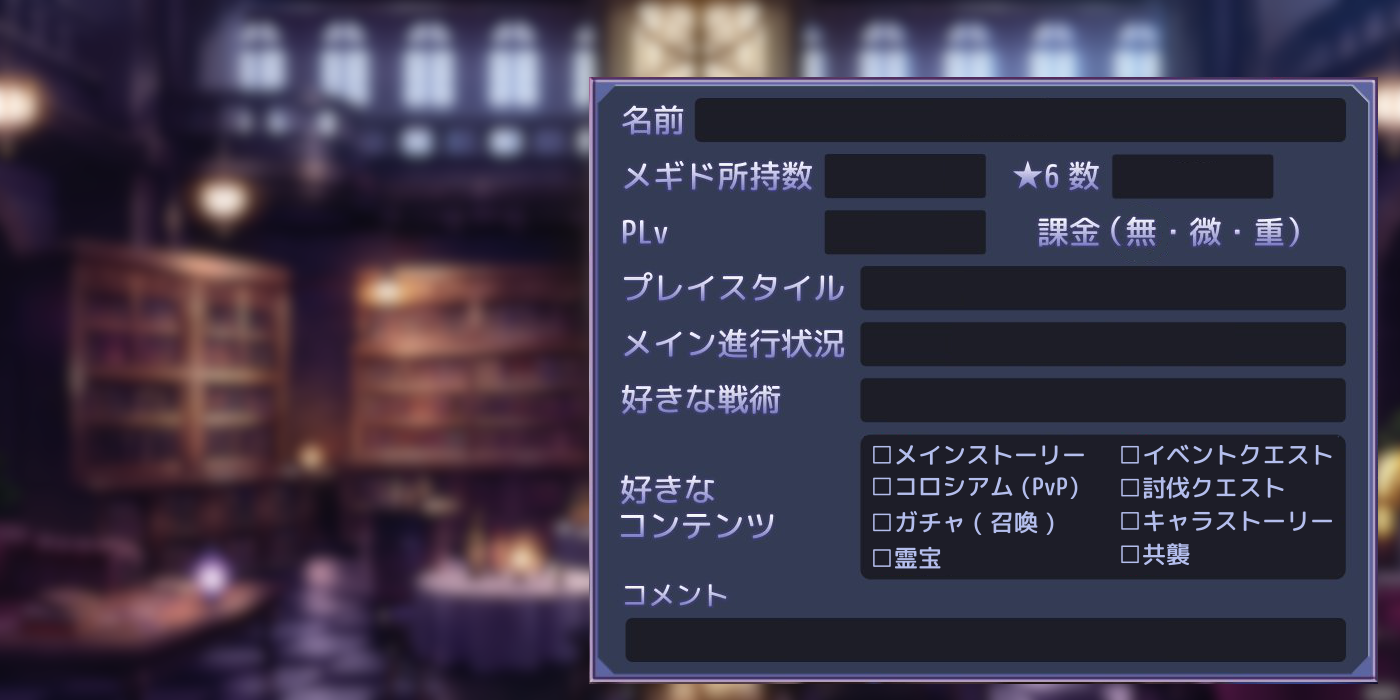
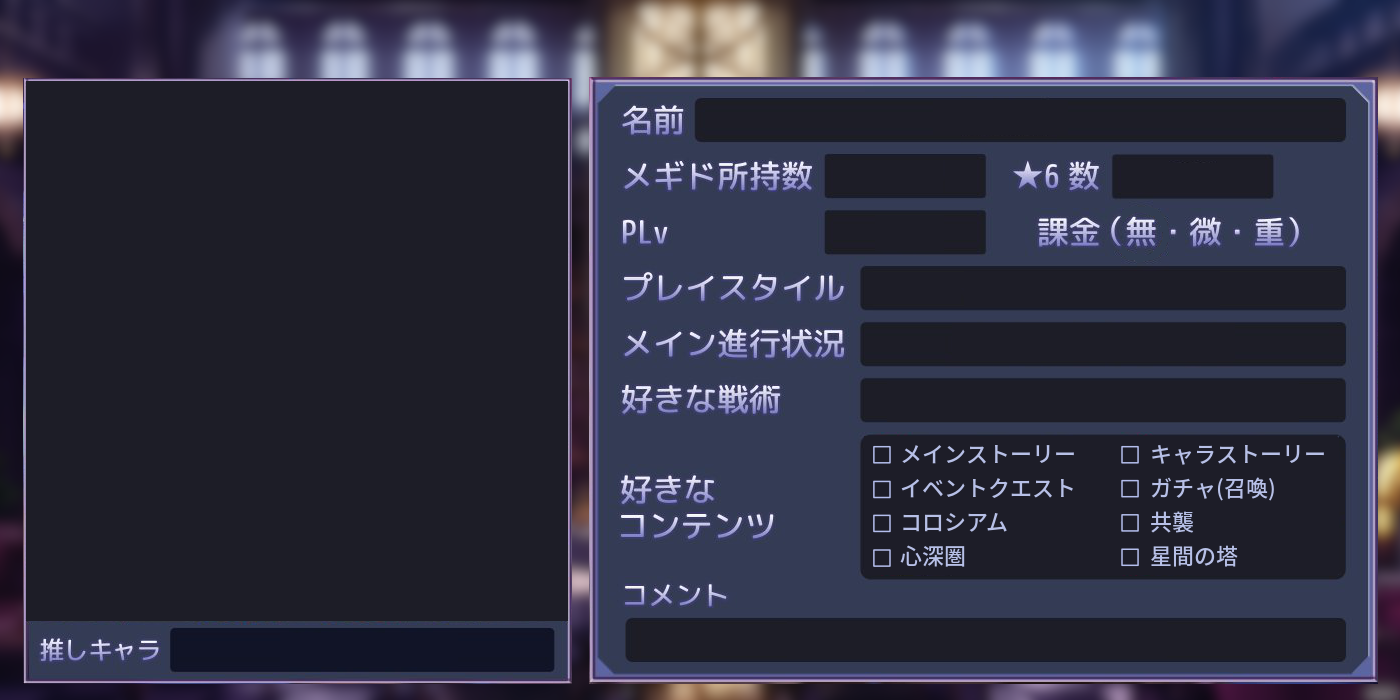
reorganize favorite contents

Changed region(s): [[0.0, 0.09, 0.43, 0.99], [0.7986, 0.63, 0.9521, 0.81], [0.6143, 0.63, 0.7679, 0.81]]

diff --git a/maker.js b/maker.js
@@ -28,16 +28,16 @@ const MEGIDO_OVERLAY = createCanvas(549, 606);
 const MEGIDO_EN = new Map();
 const MEGIDO_TABLE = new Map();
 var ShowState;
-(function(ShowState1) {
-    ShowState1[ShowState1["MegidoFront"] = 0] = "MegidoFront";
-    ShowState1[ShowState1["MegidoThumb"] = 1] = "MegidoThumb";
+(function(ShowState) {
+    ShowState[ShowState["MegidoFront"] = 0] = "MegidoFront";
+    ShowState[ShowState["MegidoThumb"] = 1] = "MegidoThumb";
 })(ShowState || (ShowState = {}));
 let MEGIDO_SHOW_STATE = ShowState.MegidoFront;
 let CAN_I_USE_WEBP = true;
 var DrawTarget;
-(function(DrawTarget1) {
-    DrawTarget1[DrawTarget1["HiddenFront"] = 0] = "HiddenFront";
-    DrawTarget1[DrawTarget1["MegidoOverlay"] = 1] = "MegidoOverlay";
+(function(DrawTarget) {
+    DrawTarget[DrawTarget["HiddenFront"] = 0] = "HiddenFront";
+    DrawTarget[DrawTarget["MegidoOverlay"] = 1] = "MegidoOverlay";
 })(DrawTarget || (DrawTarget = {}));
 async function drawText(txt, x, y, w, h, isSubset = true, target = DrawTarget.HiddenFront) {
     const fontFamily = await new Promise((resolve, _)=>{
@@ -159,7 +159,7 @@ function simpleChangeListeners() {
 function favoriteContentListener() {
     document.querySelectorAll("#favorite_contents input[type='checkbox']").forEach(function(item) {
         item.addEventListener("change", function(ev) {
-            const ctx1 = HIDDEN_FRONT.getContext("2d");
+            const ctx = HIDDEN_FRONT.getContext("2d");
             const doCheck = (ctx, x, y)=>{
                 const img = new Image();
                 img.src = "/img/checkbox.png";
@@ -169,62 +169,37 @@ function favoriteContentListener() {
             };
             const target = ev.target;
             const checked = target.checked;
+            const checkOrClear = (x, y)=>{
+                if (checked) {
+                    doCheck(ctx, x, y);
+                } else {
+                    ctx.clearRect(x, y, 35, 35);
+                }
+            };
             switch(target.id){
-                case "contents_main":
-                    if (checked) {
-                        doCheck(ctx1, 865, 436);
-                    } else {
-                        ctx1.clearRect(865, 436, 35, 35);
-                    }
+                case "contents_1":
+                    checkOrClear(865, 436);
                     break;
-                case "contents_event":
-                    if (checked) {
-                        doCheck(ctx1, 1115, 436);
-                    } else {
-                        ctx1.clearRect(1115, 436, 35, 35);
-                    }
+                case "contents_2":
+                    checkOrClear(1115, 436);
                     break;
-                case "contents_pvp":
-                    if (checked) {
-                        doCheck(ctx1, 865, 466);
-                    } else {
-                        ctx1.clearRect(865, 466, 35, 35);
-                    }
+                case "contents_3":
+                    checkOrClear(865, 468);
                     break;
-                case "contents_daigen":
-                    if (checked) {
-                        doCheck(ctx1, 1115, 466);
-                    } else {
-                        ctx1.clearRect(1115, 466, 35, 35);
-                    }
+                case "contents_4":
+                    checkOrClear(1115, 468);
                     break;
-                case "contents_gacha":
-                    if (checked) {
-                        doCheck(ctx1, 865, 501);
-                    } else {
-                        ctx1.clearRect(865, 501, 35, 35);
-                    }
+                case "contents_5":
+                    checkOrClear(865, 502);
                     break;
-                case "contents_chara":
-                    if (checked) {
-                        doCheck(ctx1, 1115, 500);
-                    } else {
-                        ctx1.clearRect(1115, 500, 35, 35);
-                    }
+                case "contents_6":
+                    checkOrClear(1115, 502);
                     break;
-                case "contents_reiho":
-                    if (checked) {
-                        doCheck(ctx1, 865, 536);
-                    } else {
-                        ctx1.clearRect(865, 536, 35, 35);
-                    }
+                case "contents_7":
+                    checkOrClear(865, 537);
                     break;
-                case "contents_raid":
-                    if (checked) {
-                        doCheck(ctx1, 1115, 533);
-                    } else {
-                        ctx1.clearRect(1115, 533, 35, 35);
-                    }
+                case "contents_8":
+                    checkOrClear(1115, 536);
                     break;
             }
         });
@@ -455,10 +430,10 @@ function startUp() {
                     MEGIDO_TABLE.set(item.n, item.name);
                 }
                 if (item.re_n) {
-                    const opt = document.createElement("option");
-                    opt.text = item.name + " Re";
-                    opt.value = item.re_n;
-                    sel.add(opt);
+                    const opt1 = document.createElement("option");
+                    opt1.text = item.name + " Re";
+                    opt1.value = item.re_n;
+                    sel.add(opt1);
                     MEGIDO_TABLE.set(item.re_n, item.name);
                 }
             });

diff --git a/index.html b/index.html
@@ -166,36 +166,36 @@
     <div class="row mt-3 align-items-center" id="favorite_contents">
       <div>好きなコンテンツ</div>
       <div class="form-check ps-5 mt-2">
-        <input class="form-check-input" type="checkbox" id="contents_main">
-        <label class="form-check-label" for="contents_main">メインストーリー</label>
+        <input class="form-check-input" type="checkbox" id="contents_1">
+        <label class="form-check-label" for="contents_1">メインストーリー</label>
       </div>
       <div class="form-check ps-5 mt-2">
-        <input class="form-check-input" type="checkbox" id="contents_event">
-        <label class="form-check-label" for="contents_event">イベントストーリー</label>
+        <input class="form-check-input" type="checkbox" id="contents_2">
+        <label class="form-check-label" for="contents_2">キャラストーリー</label>
       </div>
       <div class="form-check ps-5 mt-2">
-        <input class="form-check-input" type="checkbox" id="contents_pvp">
-        <label class="form-check-label" for="contents_pvp">コロシアム(PvP)</label>
+        <input class="form-check-input" type="checkbox" id="contents_3">
+        <label class="form-check-label" for="contents_3">イベントクエスト</label>
       </div>
       <div class="form-check ps-5 mt-2">
-        <input class="form-check-input" type="checkbox" id="contents_daigen">
-        <label class="form-check-label" for="contents_daigen">大幻獣討伐(星間の禁域と塔)</label>
+        <input class="form-check-input" type="checkbox" id="contents_4">
+        <label class="form-check-label" for="contents_4">ガチャ(召喚)</label>
       </div>
       <div class="form-check ps-5 mt-2">
-        <input class="form-check-input" type="checkbox" id="contents_gacha">
-        <label class="form-check-label" for="contents_gacha">ガチャ(召喚)</label>
+        <input class="form-check-input" type="checkbox" id="contents_5">
+        <label class="form-check-label" for="contents_5">コロシアム(PvP)</label>
       </div>
       <div class="form-check ps-5 mt-2">
-        <input class="form-check-input" type="checkbox" id="contents_chara">
-        <label class="form-check-label" for="contents_chara">キャラストーリー</label>
+        <input class="form-check-input" type="checkbox" id="contents_6">
+        <label class="form-check-label" for="contents_6">共襲</label>
       </div>
       <div class="form-check ps-5 mt-2">
-        <input class="form-check-input" type="checkbox" id="contents_reiho">
-        <label class="form-check-label" for="contents_reiho">霊宝作り</label>
+        <input class="form-check-input" type="checkbox" id="contents_7">
+        <label class="form-check-label" for="contents_7">心深圏</label>
       </div>
       <div class="form-check ps-5 mt-2">
-        <input class="form-check-input" type="checkbox" id="contents_raid">
-        <label class="form-check-label" for="contents_raid">共襲</label>
+        <input class="form-check-input" type="checkbox" id="contents_8">
+        <label class="form-check-label" for="contents_8">星間の塔</label>
       </div>
     </div>
     <div class="row mt-3 align-items-center">
